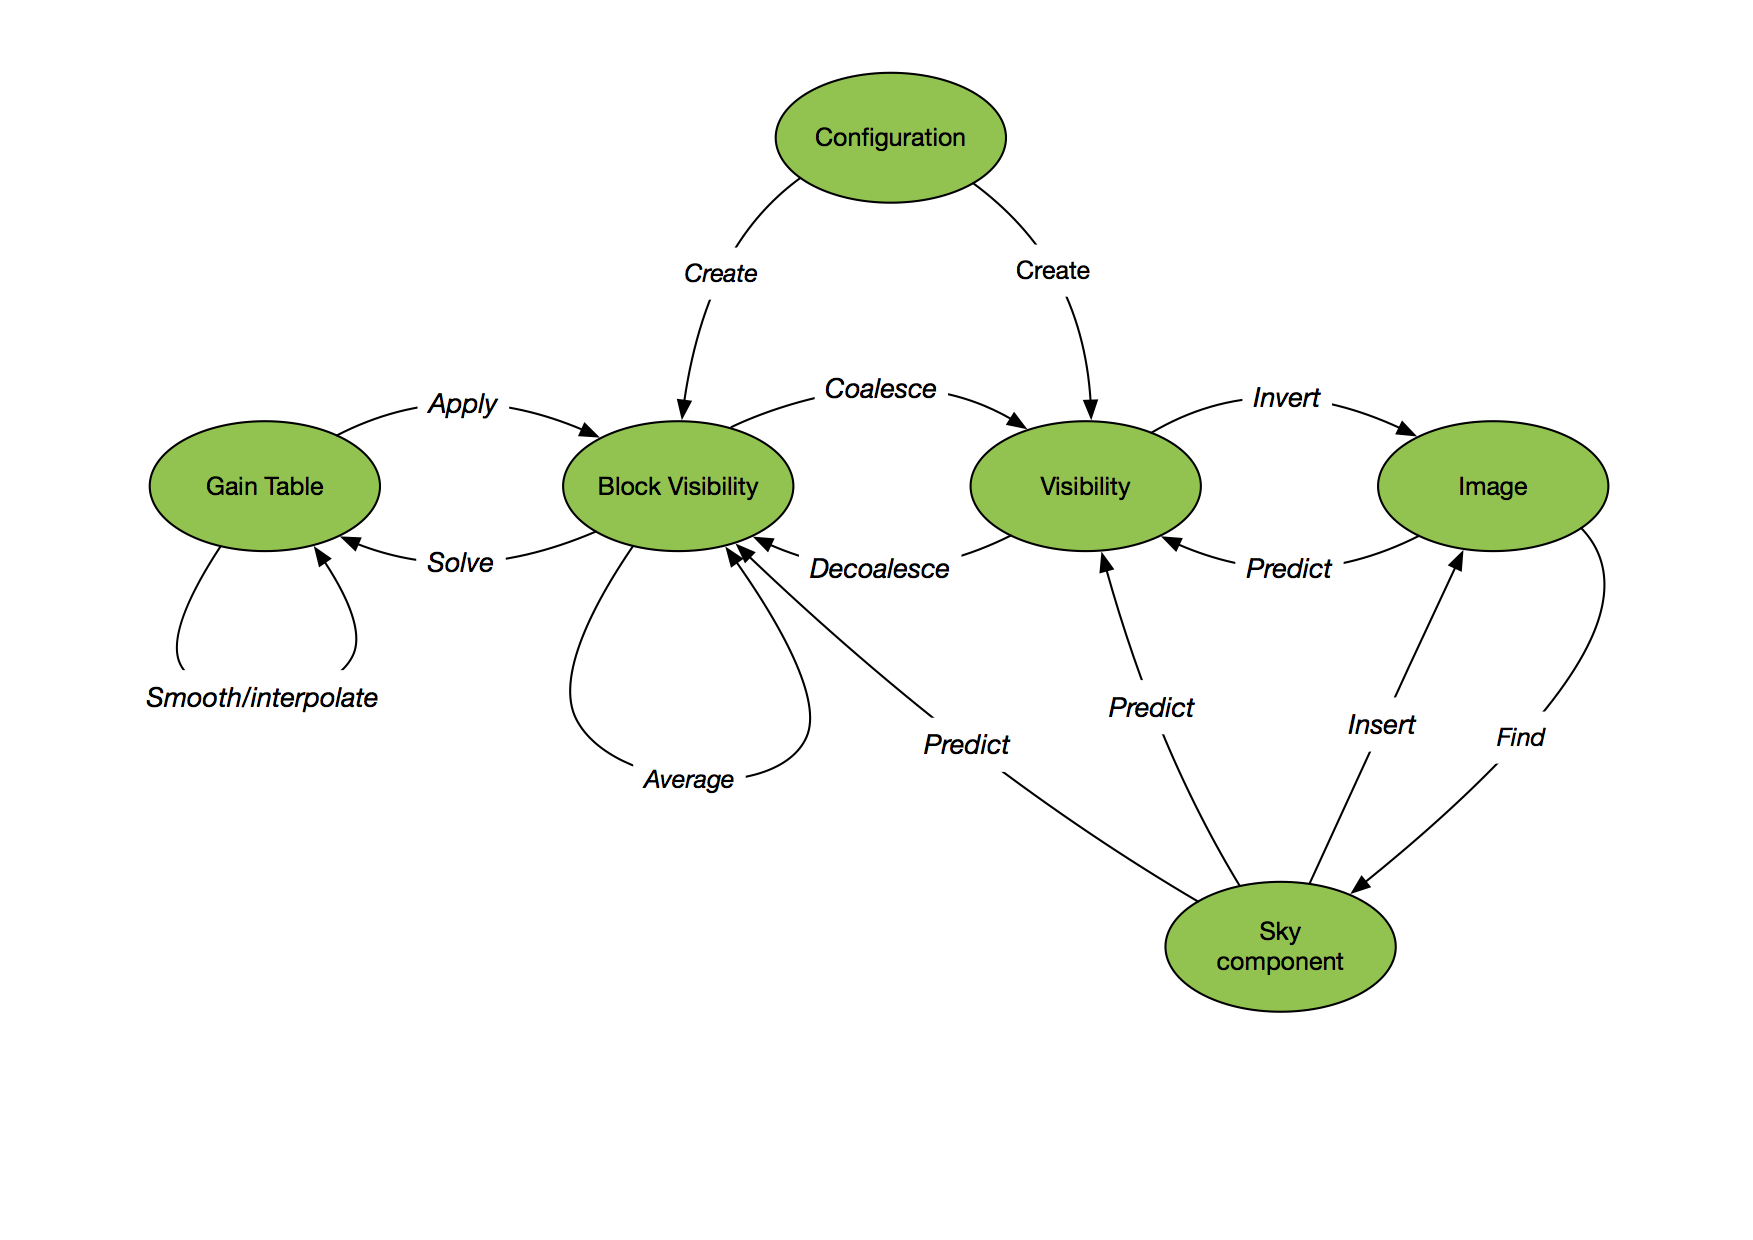
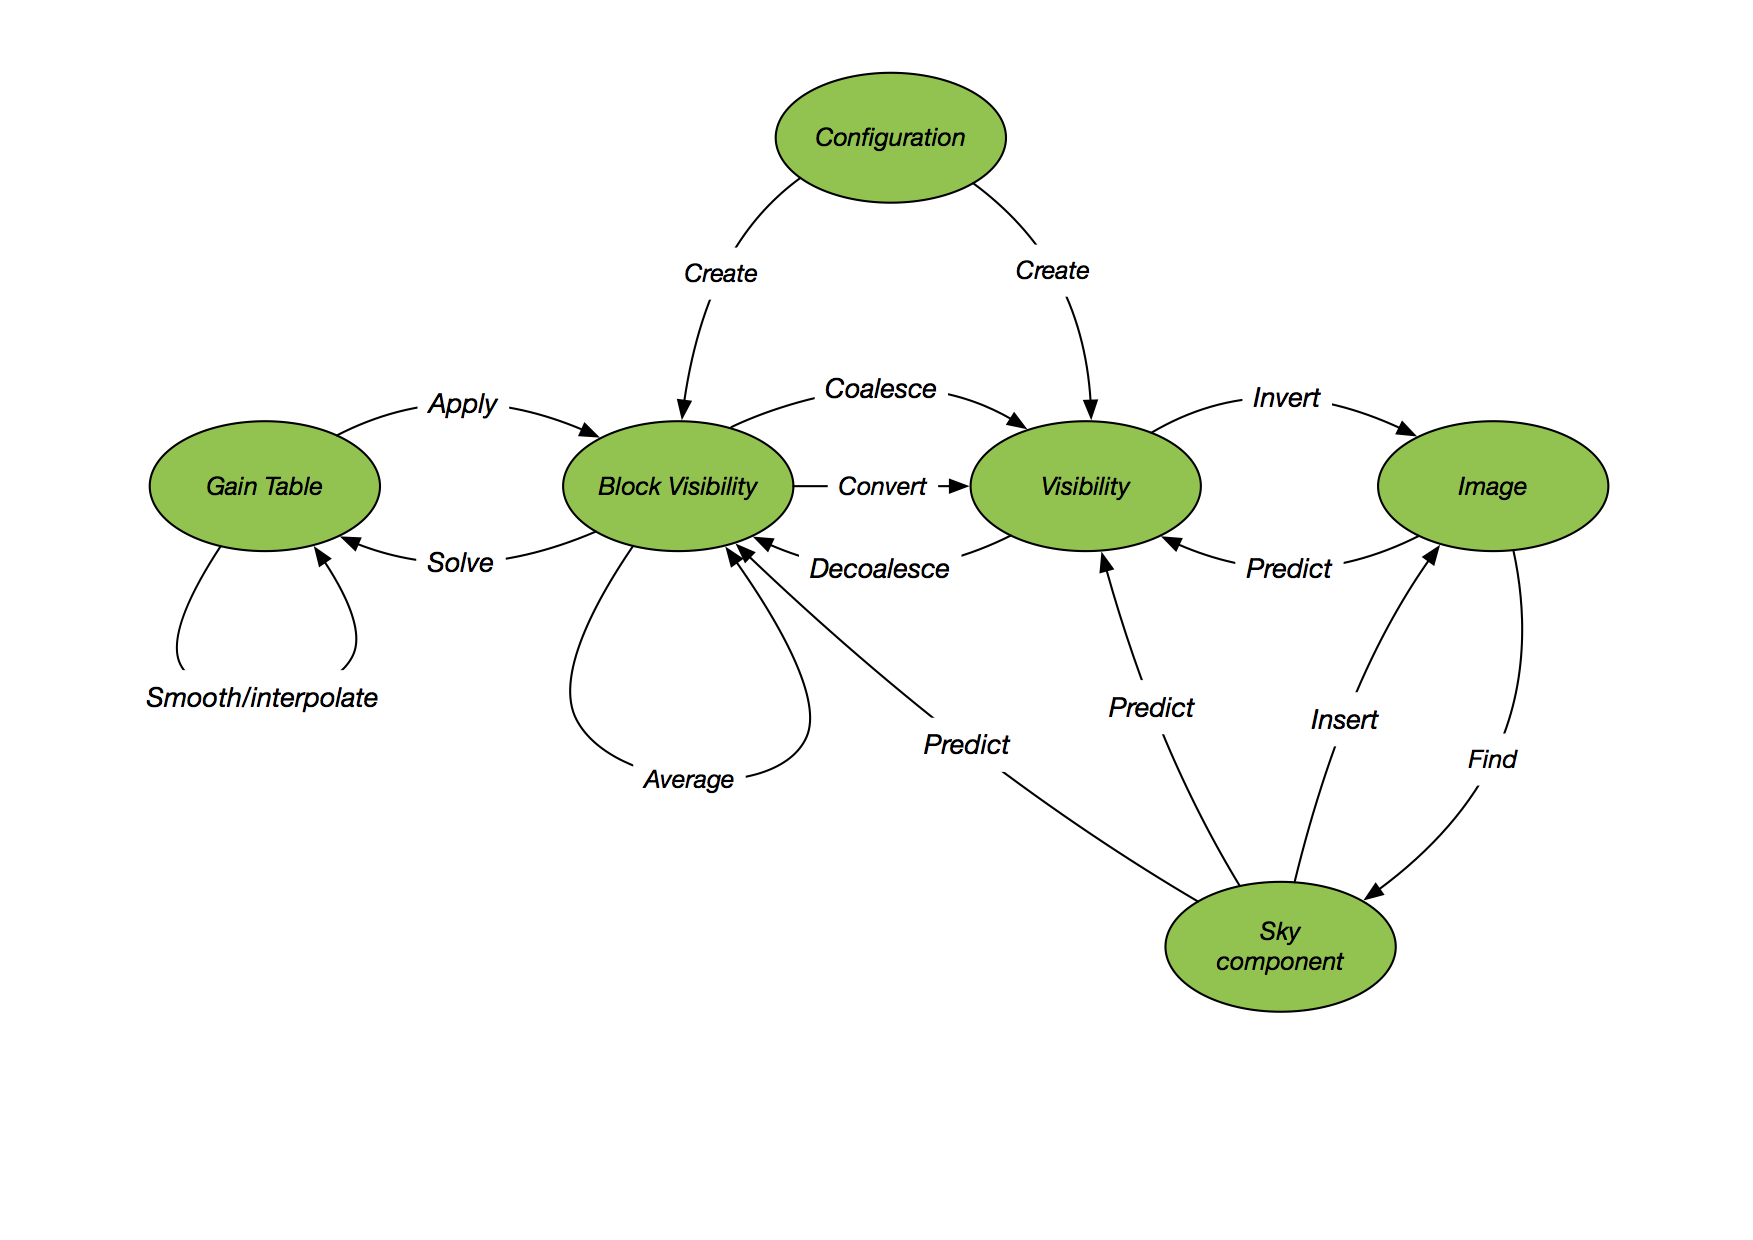
coalesce improvements
Split time and frequency coalescing.

Optimisation of component predict

Trap warning in PSF fit, fits read

Add colormap spec to show_image

Updated transitions diagram

diff --git a/tests/test_coalesce.py b/tests/test_coalesce.py
@@ -31,16 +31,44 @@ class TestCoalesce(unittest.TestCase):
                                                channel_bandwidth=self.channel_bandwidth,
                                                phasecentre=self.phasecentre, weight=1.0,
                                                polarisation_frame=PolarisationFrame('stokesI'))
-    
-    def test_coalesce_decoalesce(self):
-        cvis, cindex = coalesce_visibility(self.blockvis, coalescence_factor=1.0)
+
+    def test_coalesce_decoalesce_zero(self):
+        cvis, cindex = coalesce_visibility(self.blockvis, time_coal=0.0, frequency_coal=0.0)
         assert numpy.min(cvis.frequency) == numpy.min(self.frequency)
         assert numpy.min(cvis.frequency) > 0.0
         dvis = decoalesce_visibility(cvis, self.blockvis, cindex=cindex)
         assert dvis.nvis == self.blockvis.nvis
         dvis = decoalesce_visibility(cvis, self.blockvis, cindex=cindex, overwrite=True)
         assert dvis.nvis == self.blockvis.nvis
-    
+
+
+    def test_coalesce_decoalesce(self):
+        cvis, cindex = coalesce_visibility(self.blockvis, time_coal=1.0, frequency_coal=1.0)
+        assert numpy.min(cvis.frequency) == numpy.min(self.frequency)
+        assert numpy.min(cvis.frequency) > 0.0
+        dvis = decoalesce_visibility(cvis, self.blockvis, cindex=cindex)
+        assert dvis.nvis == self.blockvis.nvis
+        dvis = decoalesce_visibility(cvis, self.blockvis, cindex=cindex, overwrite=True)
+        assert dvis.nvis == self.blockvis.nvis
+
+    def test_coalesce_decoalesce_frequency(self):
+        cvis, cindex = coalesce_visibility(self.blockvis, time_coal=0.0, max_time_coal=1, frequency_coal=1.0)
+        assert numpy.min(cvis.frequency) == numpy.min(self.frequency)
+        assert numpy.min(cvis.frequency) > 0.0
+        dvis = decoalesce_visibility(cvis, self.blockvis, cindex=cindex)
+        assert dvis.nvis == self.blockvis.nvis
+        dvis = decoalesce_visibility(cvis, self.blockvis, cindex=cindex, overwrite=True)
+        assert dvis.nvis == self.blockvis.nvis
+
+    def test_coalesce_decoalesce_time(self):
+        cvis, cindex = coalesce_visibility(self.blockvis, time_coal=1.0, frequency_coal=0.0, max_frequency_coal=1)
+        assert numpy.min(cvis.frequency) == numpy.min(self.frequency)
+        assert numpy.min(cvis.frequency) > 0.0
+        dvis = decoalesce_visibility(cvis, self.blockvis, cindex=cindex)
+        assert dvis.nvis == self.blockvis.nvis
+        dvis = decoalesce_visibility(cvis, self.blockvis, cindex=cindex, overwrite=True)
+        assert dvis.nvis == self.blockvis.nvis
+
     def test_coalesce_decoalesce_singletime(self):
         self.times = numpy.array([0.0])
         self.blockvis = create_blockvisibility(self.lowcore, self.times, self.frequency,
@@ -49,14 +77,14 @@ class TestCoalesce(unittest.TestCase):
                                                polarisation_frame=PolarisationFrame('stokesI'))
         # Fill in the vis values so each can be uniquely identified
         self.blockvis.data['vis'] = range(self.blockvis.nvis)
-        cvis, cindex = coalesce_visibility(self.blockvis, coalescence_factor=1.0)
+        cvis, cindex = coalesce_visibility(self.blockvis, time_coal=1.0)
         assert numpy.min(cvis.frequency) == numpy.min(self.frequency)
         assert numpy.min(cvis.frequency) > 0.0
         dvis = decoalesce_visibility(cvis, self.blockvis, cindex=cindex)
         assert dvis.nvis == self.blockvis.nvis
     
     def test_coalesce_decoalesce_tbgrid_vis_null(self):
-        cvis, cindex = coalesce_visibility(self.blockvis, coalescence_factor=0.0)
+        cvis, cindex = coalesce_visibility(self.blockvis, time_coal=0.0)
         assert numpy.min(cvis.frequency) == numpy.min(self.frequency)
         assert numpy.min(cvis.frequency) > 0.0
 

diff --git a/tests/test_testing_support.py b/tests/test_testing_support.py
@@ -230,5 +230,5 @@ class TestTesting_Support(unittest.TestCase):
                                           polarisation_frame=PolarisationFrame('stokesI'))
         original = copy_visibility(self.vis)
         self.vis = predict_skycomponent_blockvisibility(self.vis, sc)
-        cvt, cindex = coalesce_visibility(self.vis, coalescence_factor=1.0)
+        cvt, cindex = coalesce_visibility(self.vis, time_coal=1.0)
         assert cindex is not None
